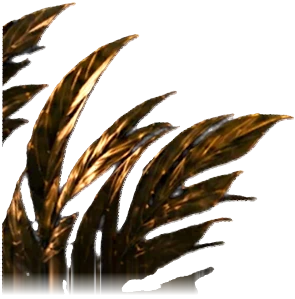
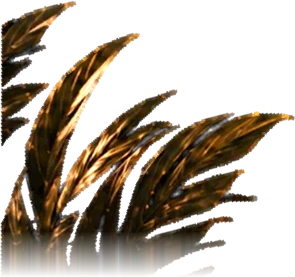
Como foi: recorte das folhas sem resto de fundo + degradê preto/dourado nos cantos
Claude-Session: https://claude.ai/code/session_018srAHrESznkWRHoACDe2BQ

diff --git a/src/app/globals.css b/src/app/globals.css
@@ -252,9 +252,19 @@ html, body { overflow-x: hidden; overflow-x: clip; }
 
 /* ---------- Página "Como foi" ---------- */
 .cf-folhas { position: fixed; inset: 0; z-index: 40; overflow: hidden; pointer-events: none; }
+.cf-brilho { position: absolute; top: 0; bottom: 0; width: clamp(150px, 34vw, 560px); animation: cfBrilho 2.4s ease-out both; }
+.cf-brilho-e { left: 0; background:
+  radial-gradient(ellipse 85% 34% at 0% 6%, rgba(201,151,90,.26), transparent 70%),
+  radial-gradient(ellipse 80% 30% at 0% 94%, rgba(201,151,90,.2), transparent 70%),
+  linear-gradient(to right, rgba(0,0,0,.82), rgba(0,0,0,.45) 45%, transparent); }
+.cf-brilho-d { right: 0; background:
+  radial-gradient(ellipse 85% 34% at 100% 8%, rgba(201,151,90,.26), transparent 70%),
+  radial-gradient(ellipse 80% 30% at 100% 92%, rgba(201,151,90,.2), transparent 70%),
+  linear-gradient(to left, rgba(0,0,0,.82), rgba(0,0,0,.45) 45%, transparent); }
+@keyframes cfBrilho { from { opacity: 0; } to { opacity: 1; } }
 .cf-camada { position: absolute; inset: 0; will-change: transform; }
 .cf-fo-ent { position: absolute; top: var(--topo); animation: cfBrotar 1.8s cubic-bezier(.2,.7,.2,1) both; animation-delay: var(--entrada); }
-.cf-fo { width: 100%; height: 100%; animation: cfBalanca var(--dur) ease-in-out var(--atraso) infinite; will-change: transform; filter: drop-shadow(0 6px 14px rgba(0,0,0,.45)); }
+.cf-fo { width: 100%; height: 100%; animation: cfBalanca var(--dur) ease-in-out var(--atraso) infinite; will-change: transform; filter: drop-shadow(0 0 16px rgba(201,151,90,.22)) drop-shadow(0 6px 12px rgba(0,0,0,.5)); }
 @media (max-width: 767px) { .cf-fo-ent { top: var(--topo-m); } }
 @keyframes cfBrotar { from { opacity: 0; transform: rotate(calc(var(--dir) * 26deg)) scale(.55); } to { opacity: 1; transform: none; } }
 @keyframes cfBalanca { 0%, 100% { transform: rotate(calc(var(--amp) * -1)); } 50% { transform: rotate(var(--amp)); } }

diff --git a/src/components/como-foi/Folhas.tsx b/src/components/como-foi/Folhas.tsx
@@ -6,10 +6,10 @@ import { useEffect, useRef } from "react";
 // tela (onde o corte da imagem fica escondido), entra "brotando" e balança no próprio ritmo, girando a partir
 // do ponto onde encosta. Ao rolar a página, o conjunto desliza de leve.
 const PECAS = {
-  a: { w: 295, h: 299, py: 0.45, amp: 1.6 },
-  b: { w: 223, h: 241, py: 0.35, amp: 2.3 },
-  c: { w: 187, h: 258, py: 0.5, amp: 2.8 },
-  d: { w: 230, h: 243, py: 0.45, amp: 2.3 },
+  a: { w: 295, h: 277, py: 0.45, amp: 1.6 },
+  b: { w: 223, h: 218, py: 0.35, amp: 2.3 },
+  c: { w: 187, h: 257, py: 0.5, amp: 2.8 },
+  d: { w: 230, h: 242, py: 0.45, amp: 2.3 },
 } as const;
 type Peca = keyof typeof PECAS;
 
@@ -45,6 +45,8 @@ export default function Folhas() {
 
   return (
     <div className="cf-folhas" aria-hidden="true">
+      <div className="cf-brilho cf-brilho-e" />
+      <div className="cf-brilho cf-brilho-d" />
       <div ref={camada} className="cf-camada">
         {FOLHAS.map((f, i) => {
           const p = PECAS[f.peca];
